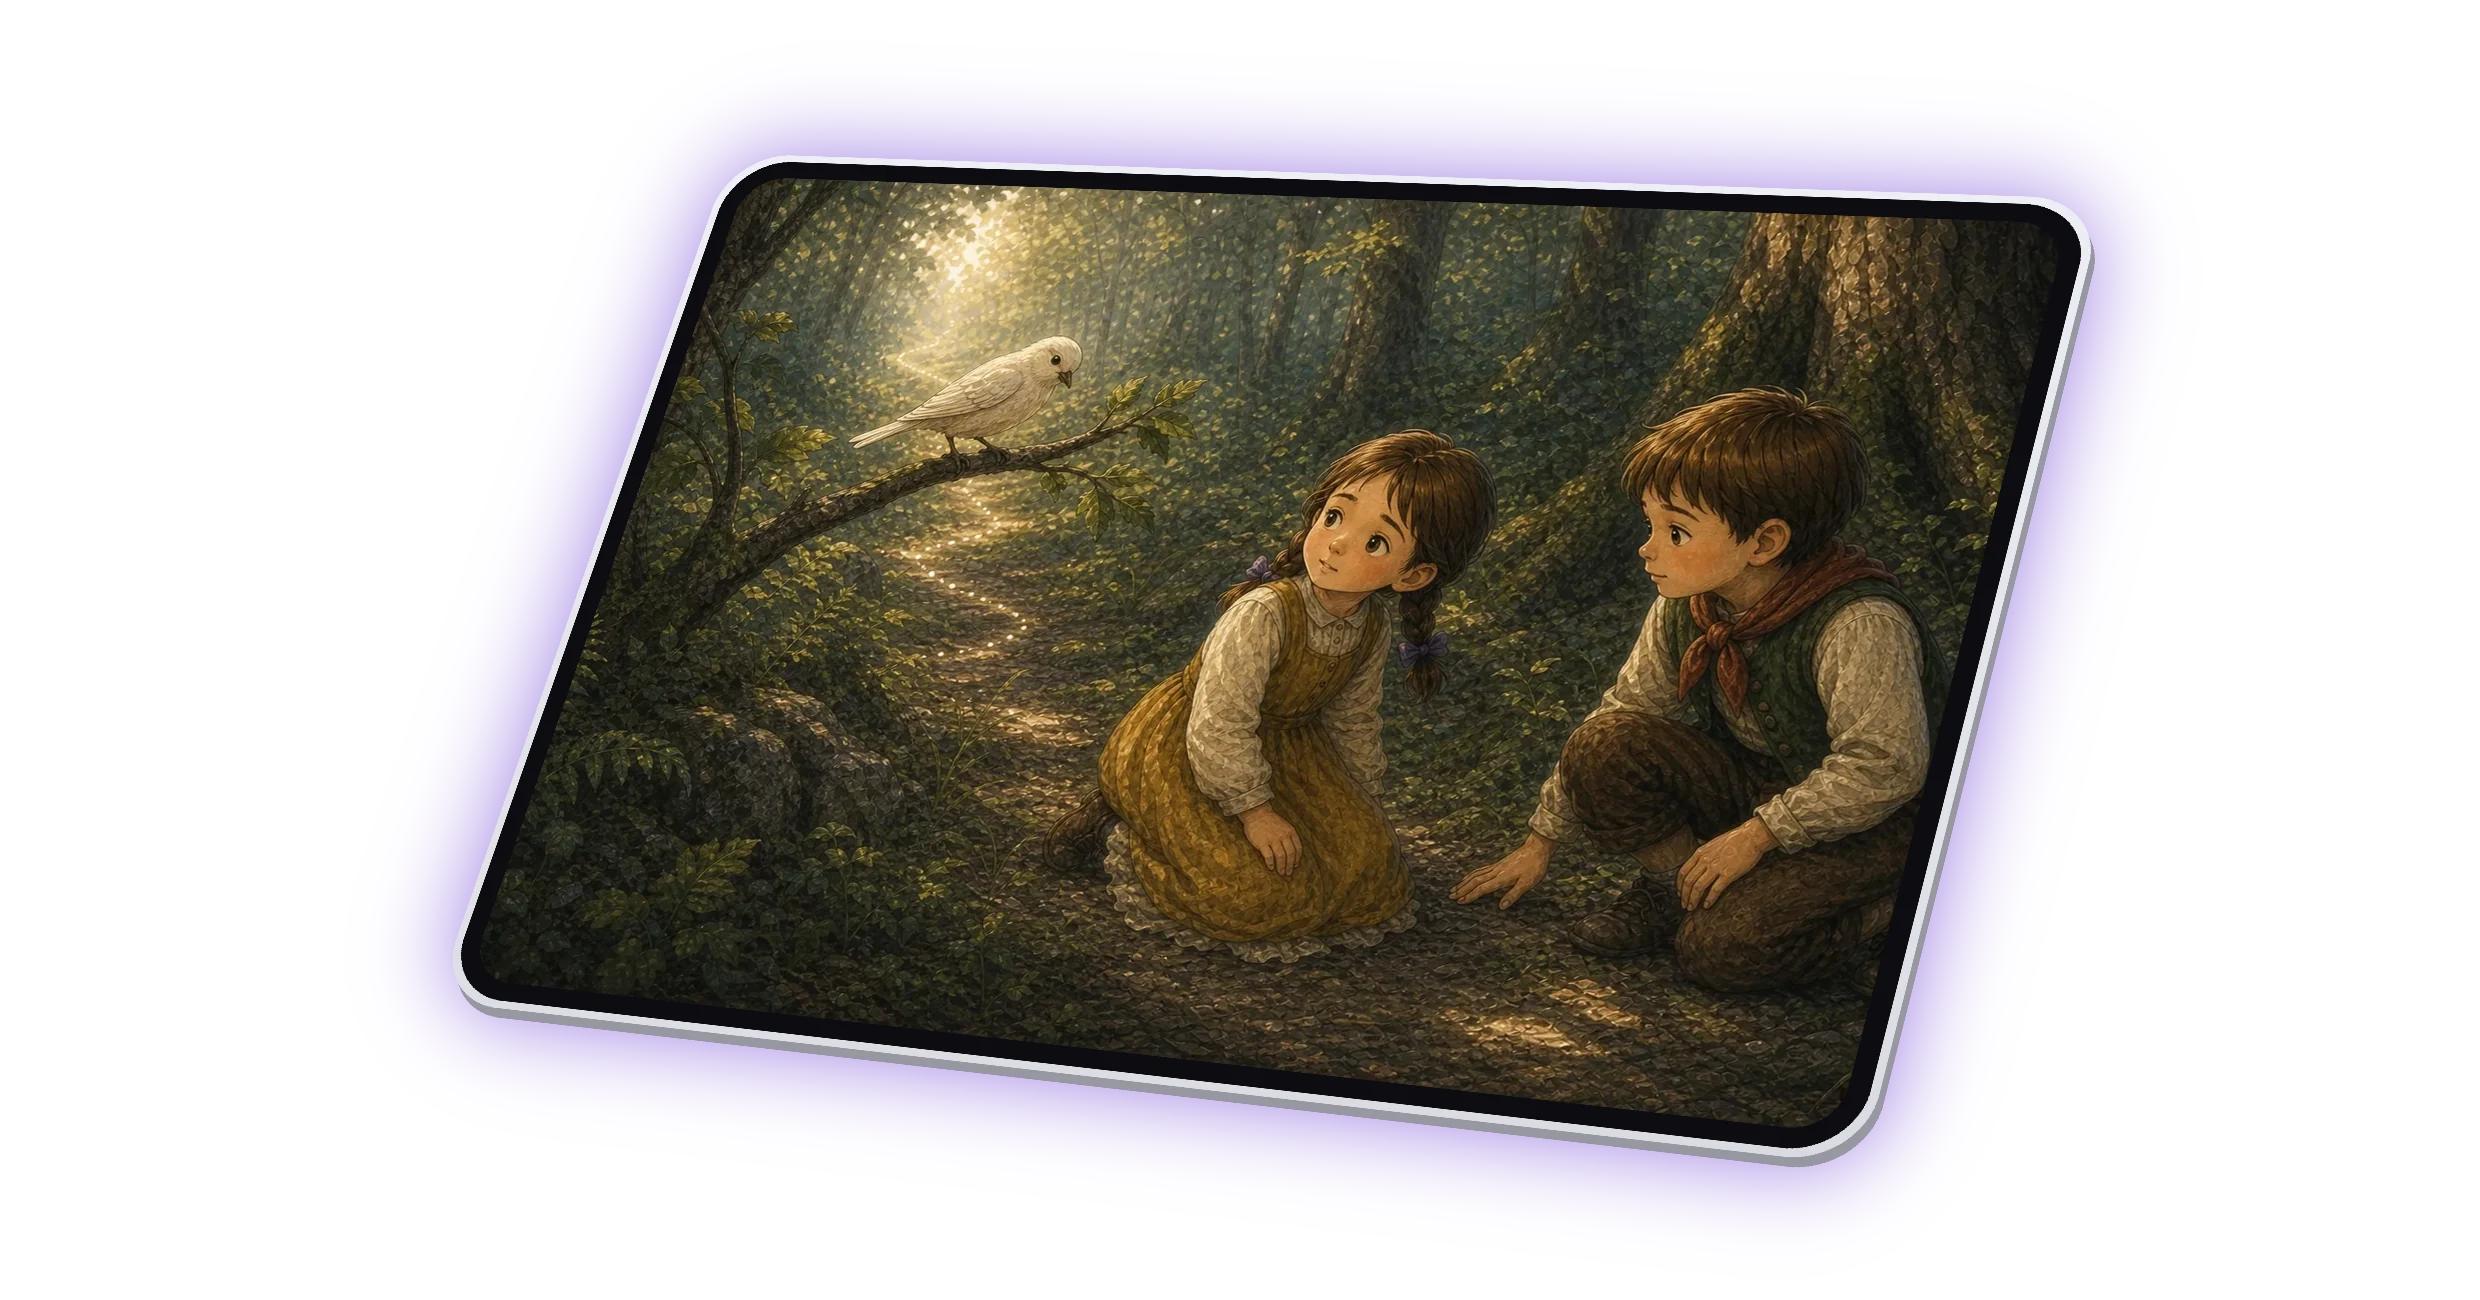
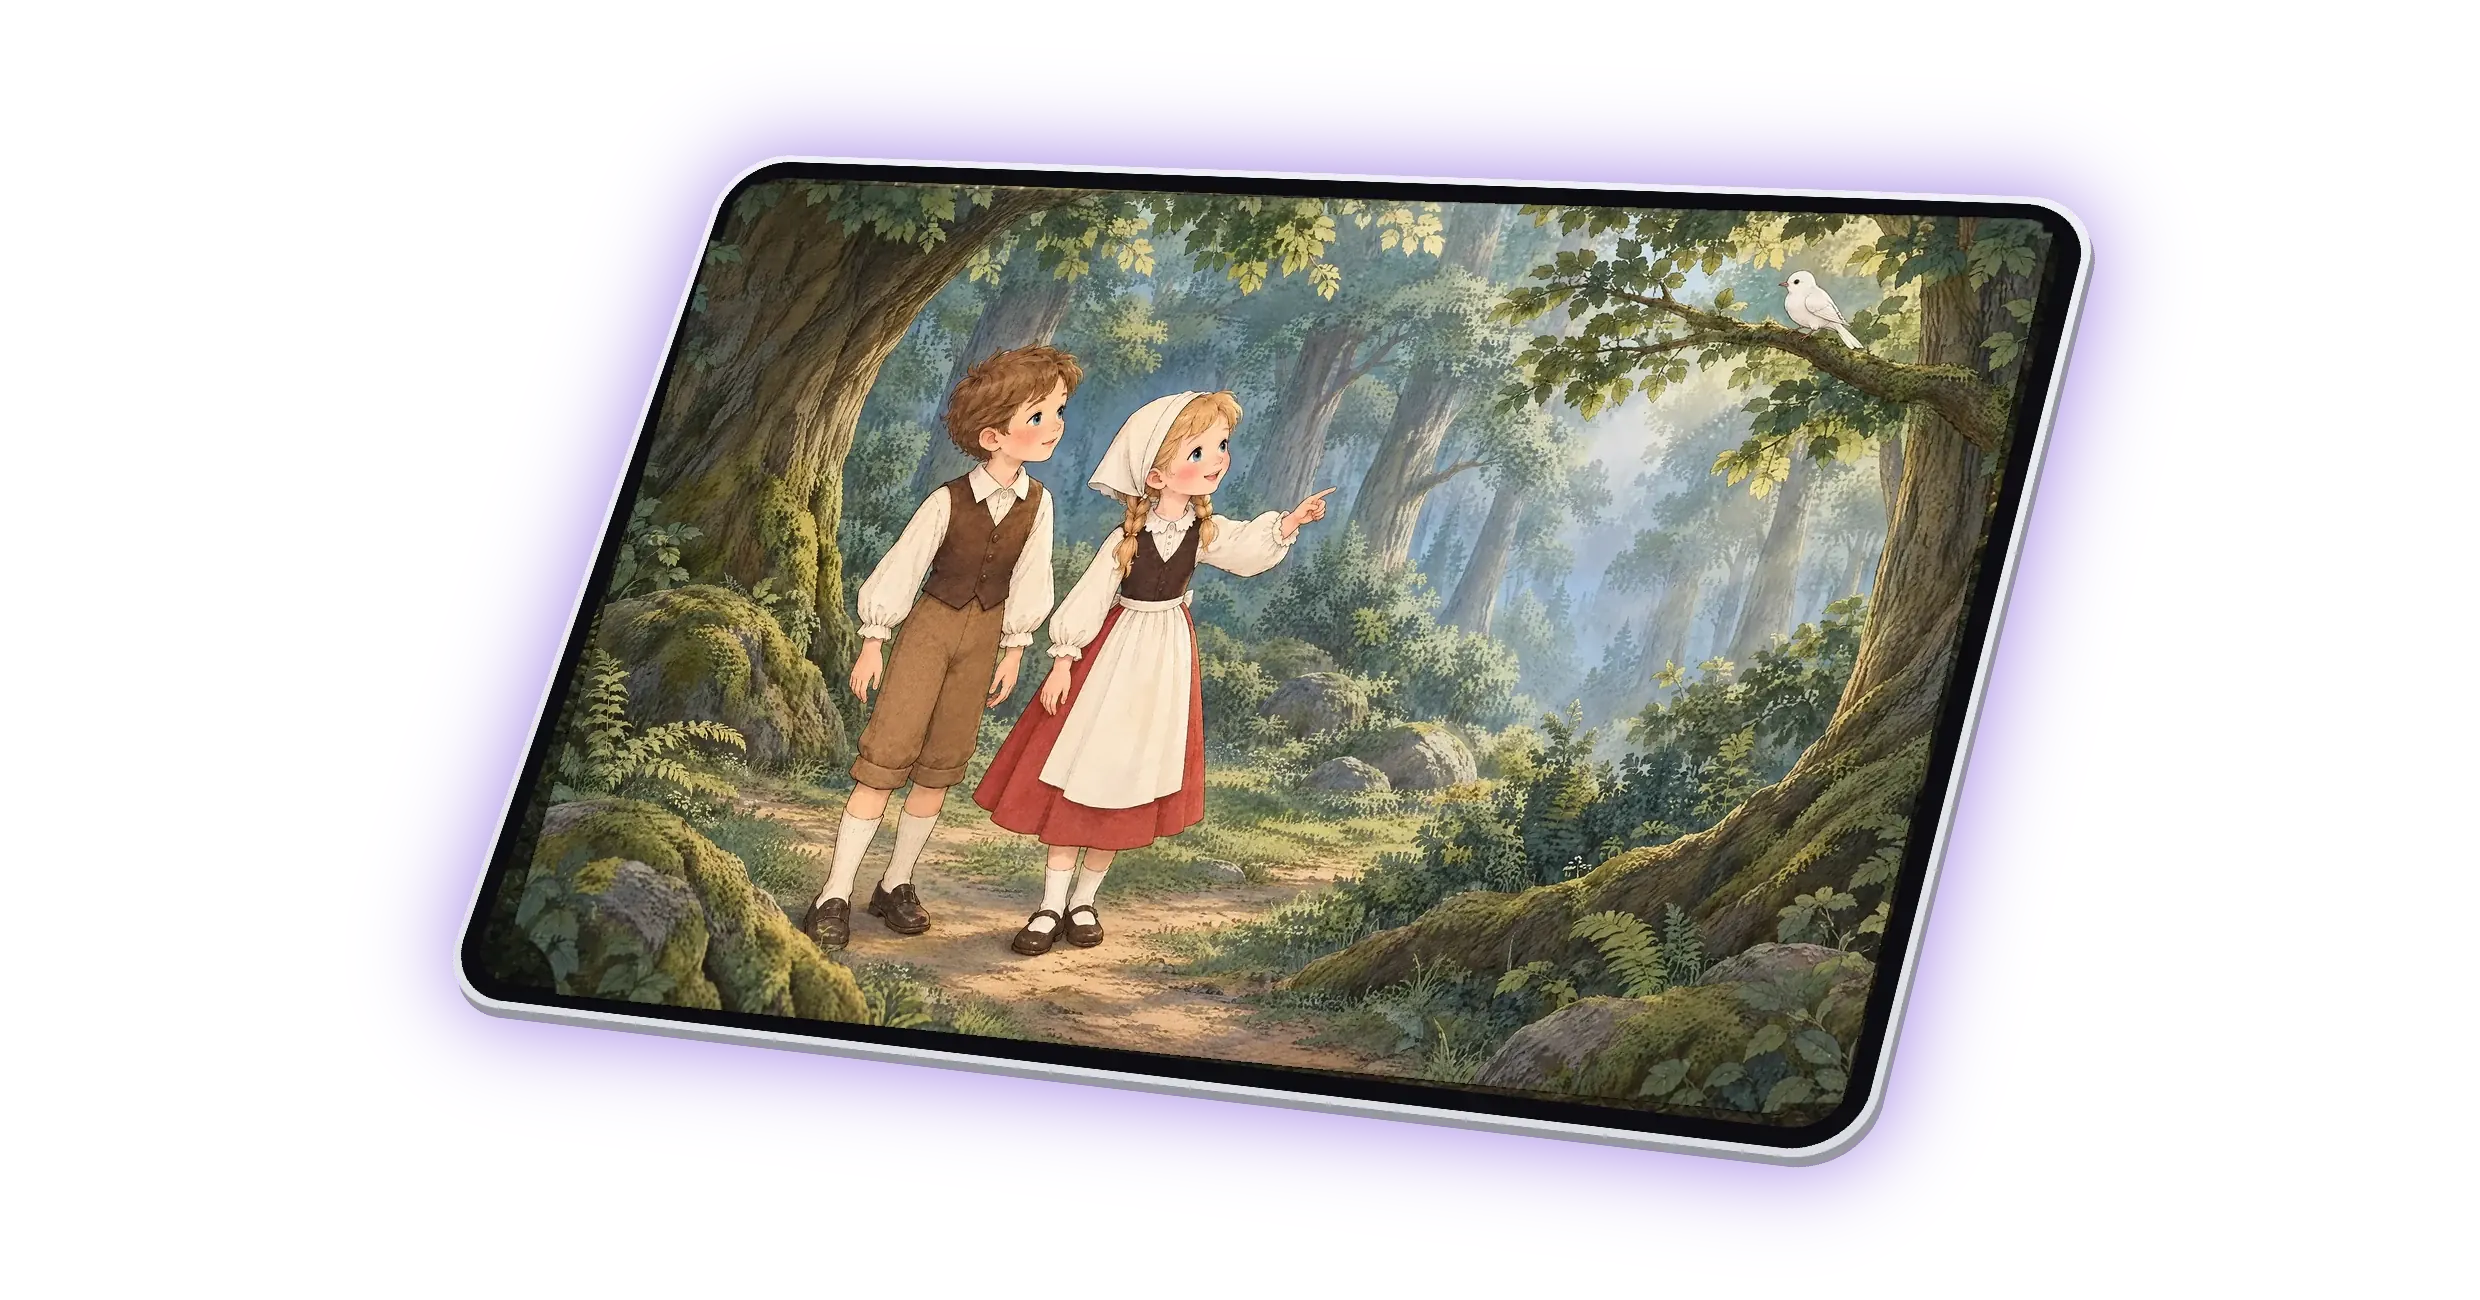
art: 랜딩 화면 캡처 속 삽화를 스타일 01 새 그림으로
첫 화면 태블릿(4화 하얀 새), 이용 방법의 과자집·부모 장면, 리포트 화면 속 장면 그림을 앱에 지금 나오는 그림으로 바꿨다.

diff --git a/index.html b/index.html
@@ -186,7 +186,7 @@
             </div>
             <img class="how-house" src="/assets/s6-house.webp" alt="숲속 과자집" width="345" height="599" loading="lazy" />
             <figure class="how-scene">
-              <img src="/assets/s6-scene.webp" alt="식탁에 앉아 걱정하는 헨젤과 그레텔의 부모" width="345" height="416" loading="lazy" />
+              <img src="/assets/s6-scene.webp" alt="식탁 옆에서 걱정하며 이야기하는 헨젤과 그레텔의 부모" width="345" height="416" loading="lazy" />
               <figcaption class="note note--xs note--light">117명의 아동을 대상으로 한 연구에서, 질문과 대화를 함께하는 독서는 <br />일방향 독서보다 이야기 이해에 긍정적인 효과를 보였습니다. <br />Xu et al., 2022</figcaption>
             </figure>
             <div class="how-caption how-caption--1">
